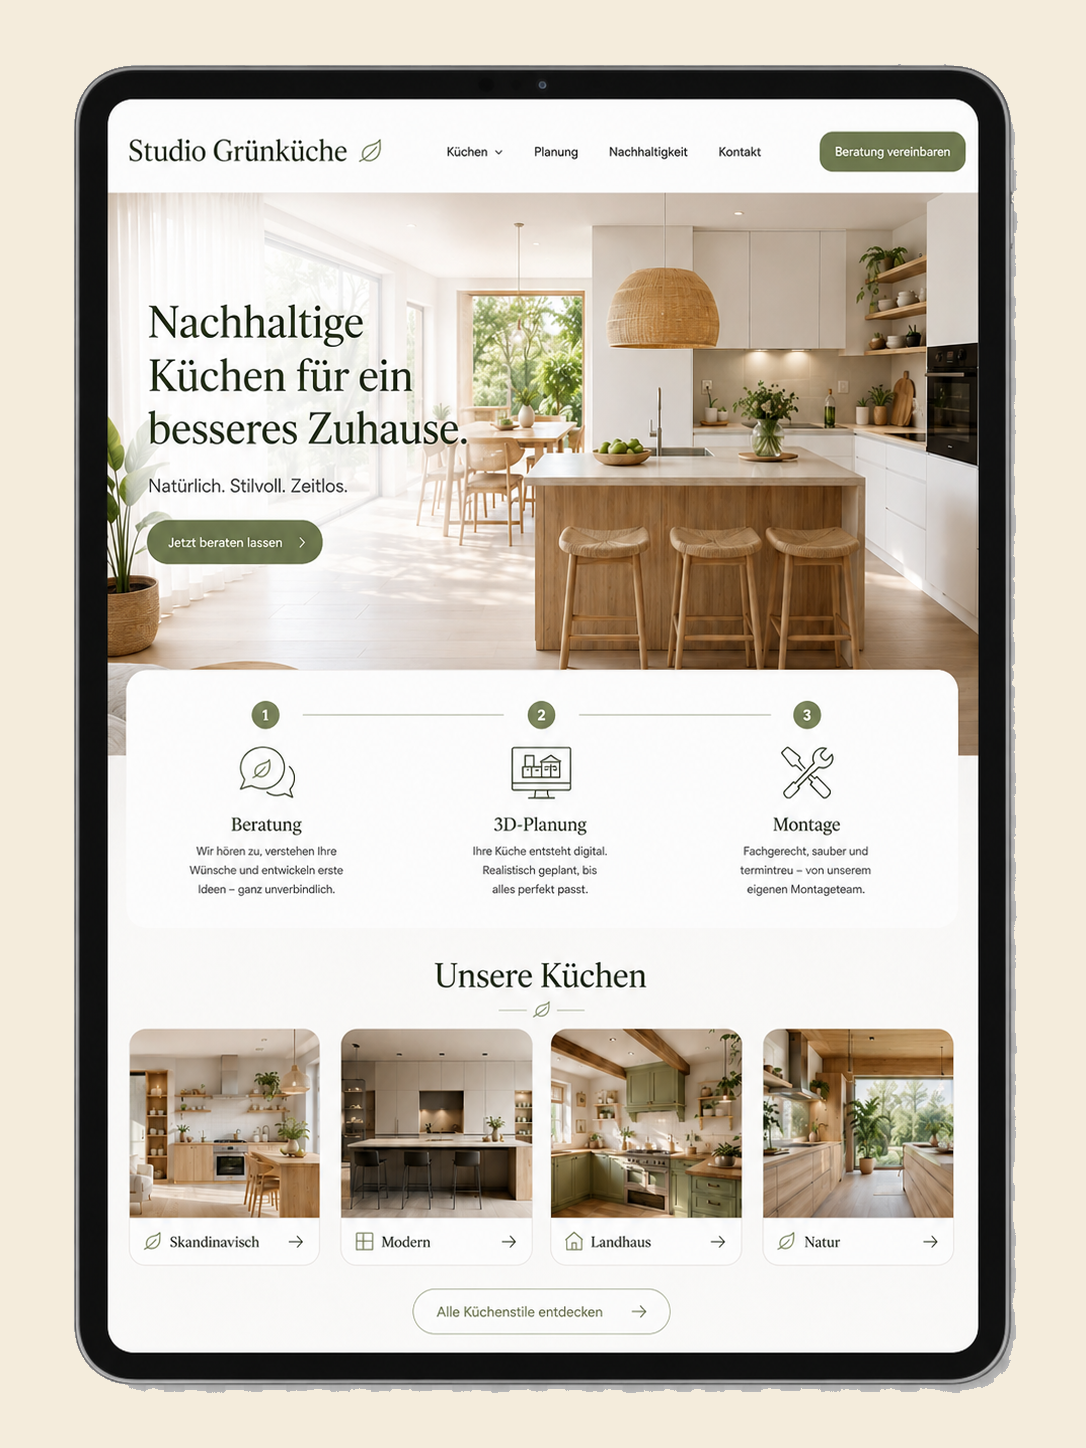
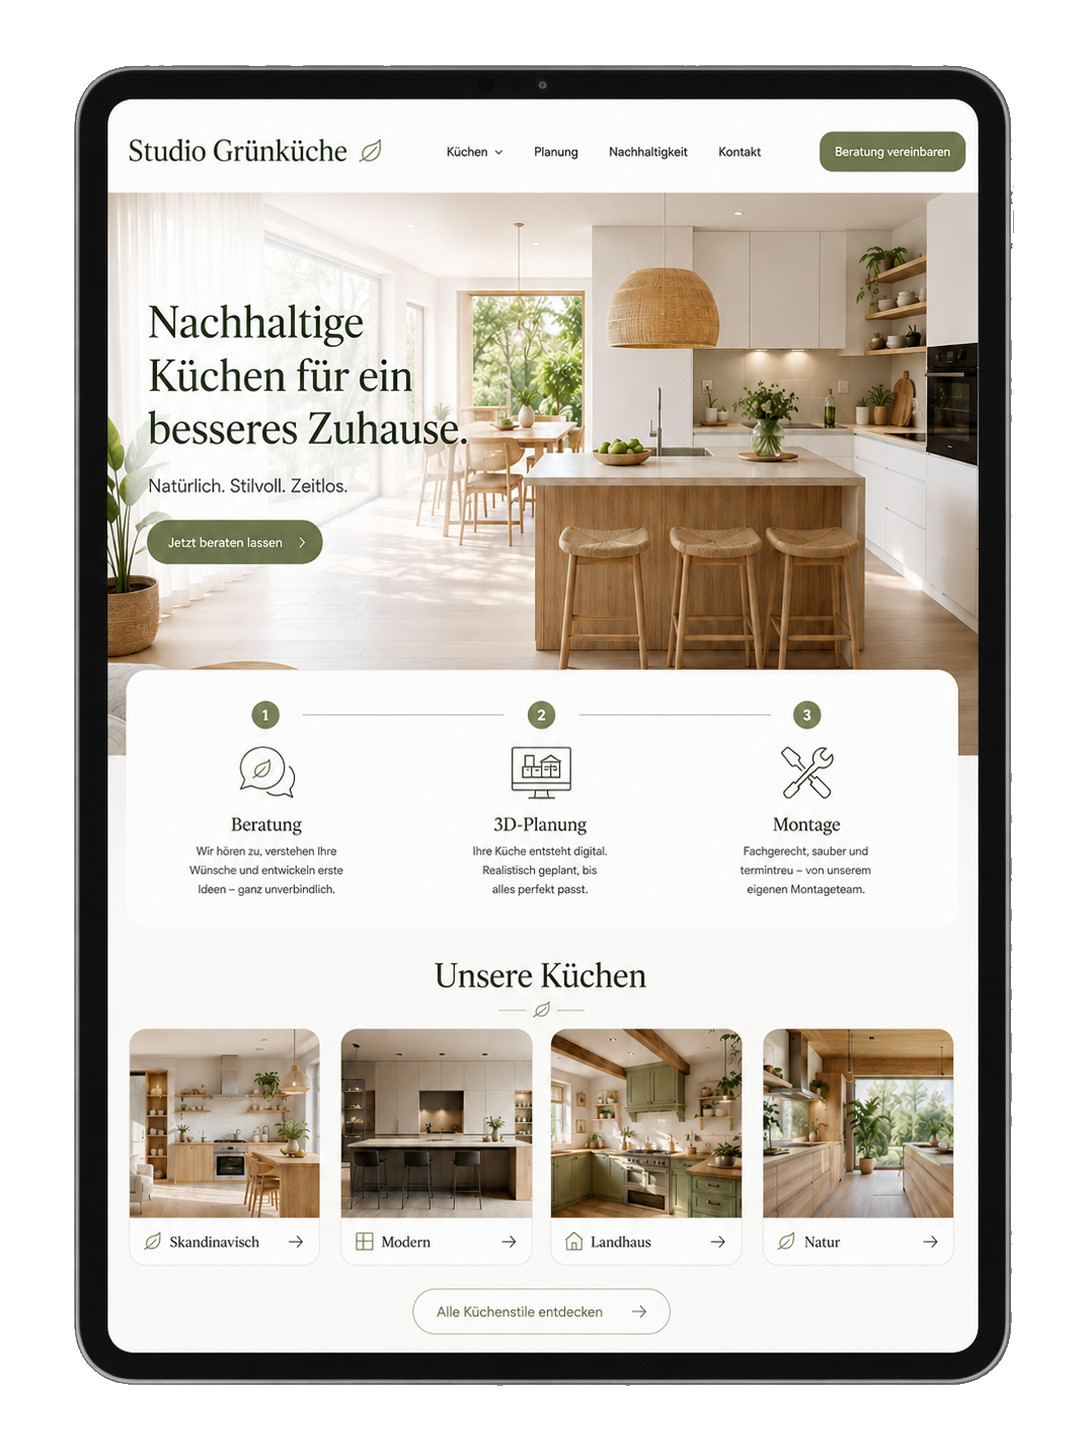
Make iPad images transparent cutouts with silhouette drop-shadow
Page background now shows through perfectly on any color; shadow hugs
the iPad shape instead of a rectangular container box.

Changed region(s): [[0.0, 0.0, 1.0, 1.0]]

diff --git a/index.html b/index.html
@@ -71,8 +71,8 @@
     @media(max-width:820px){.examples-grid{grid-template-columns:1fr;}}
     @media(min-width:500px) and (max-width:820px){.examples-grid{grid-template-columns:repeat(2,1fr);}}
     .example-card{display:flex;flex-direction:column;gap:14px;}
-    .example-tablet{padding:0;overflow:hidden;border-radius:18px;box-shadow:0 20px 40px -16px rgba(40,24,12,.25);background:var(--bg-soft);}
-    .example-tablet img{width:100%;height:auto;display:block;border-radius:0;}
+    .example-tablet{padding:0;background:transparent;}
+    .example-tablet img{width:100%;height:auto;display:block;filter:drop-shadow(0 24px 30px rgba(40,24,12,.16));}
     .example-tag{display:inline-block;background:var(--green-soft);color:var(--green);font-size:12px;font-weight:600;letter-spacing:.04em;text-transform:uppercase;padding:4px 11px;border-radius:999px;}
     .example-card h3{font-size:17px;font-weight:700;margin:2px 0 0;color:var(--ink);}
     .example-card p{font-size:13.5px;color:var(--muted);margin:0;line-height:1.5;}
